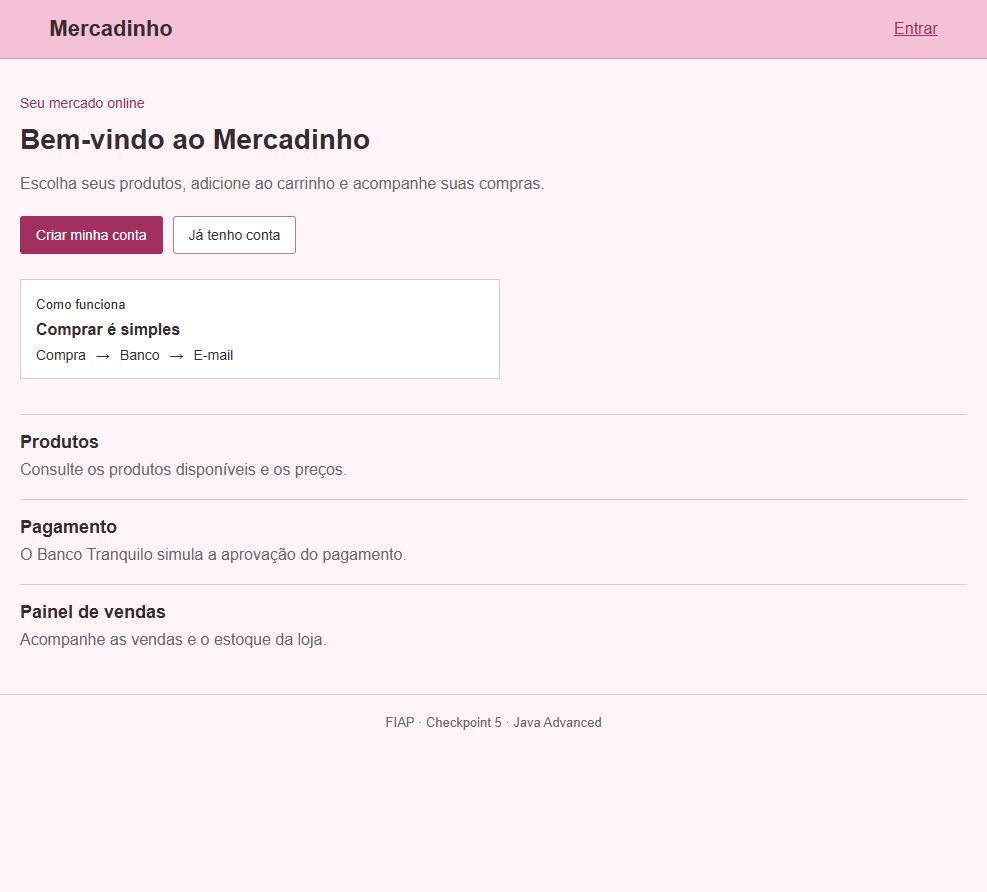
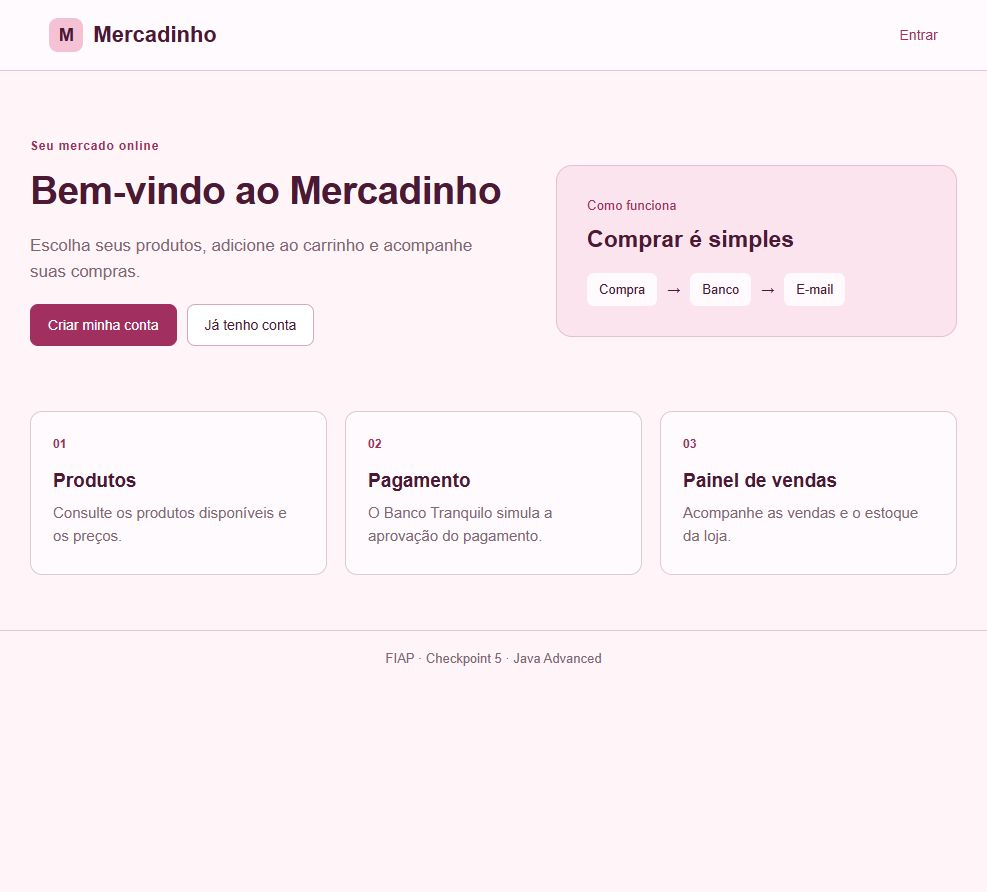
Atualiza evidencias do visual rosa intermediario

diff --git a/docs/testes.md b/docs/testes.md
@@ -81,3 +81,7 @@ Em 17/10/2026, apos o deploy corrigido, a compra ficticia #3 de R$ 39,90 foi APR
 Em 17/10/2026, o CSS foi simplificado a pedido da aluna: Arial, titulos menores, bordas simples, sem fontes externas, sombras ou degrades. Nenhuma regra de negocio foi alterada. O teste de estilo foi atualizado para conferir a nova paleta rosa, Arial, regras responsivas e ausencia dos efeitos removidos. Os sete testes Maven foram executados novamente: zero falhas e zero erros.
 
 Deploy `8f40664` confirmado como Live no Render. Inicio e login conferidos visualmente no navegador; prints `interface-simples.jpg` e `login-simples.jpg` incluidos no README.
+
+### Ajuste visual intermediario
+
+Apos o retorno da aluna, a estrutura em cartoes do layout anterior foi recuperada, mantendo titulos menores, fonte Arial, rosa suave e sem efeitos decorativos. Cantos arredondados e espacamento foram restaurados em todas as telas. Sete testes executados novamente, zero falhas e zero erros. Deploy `f1f4cc4` confirmado como Live; inicio e login conferidos no navegador. Os dois prints acima foram substituidos pelas capturas desta versao intermediaria.

diff --git a/README.md b/README.md
@@ -20,12 +20,12 @@ Print fornecido durante a configuracao da instancia: as filas `mercado.pagamento
 
 ## Telas reais do deploy
 
-Interface simplificada a pedido da aluna: fonte Arial, titulos menores, bordas retas, sem sombras ou degrades e formularios mais basicos. O rosa e as funcionalidades foram mantidos. As capturas abaixo documentam os testes anteriores a essa simplificacao visual.
+Interface ajustada a pedido da aluna para um meio-termo: a estrutura de cartoes do visual original voltou, com cantos arredondados, rosa suave, titulos menores e fonte Arial. Sem sombras, degrades ou cartao inclinado. As funcionalidades foram mantidas.
 
-Versao simples publicada e conferida no Render em 17/10/2026:
+Versao intermediaria publicada e conferida no Render em 17/10/2026:
 
-![Inicio com interface simples](docs/interface-simples.jpg)
-![Login com formulario simples](docs/login-simples.jpg)
+![Inicio com visual rosa intermediario](docs/interface-simples.jpg)
+![Login com visual rosa intermediario](docs/login-simples.jpg)
 
 ### Capturas anteriores dos testes funcionais
 
